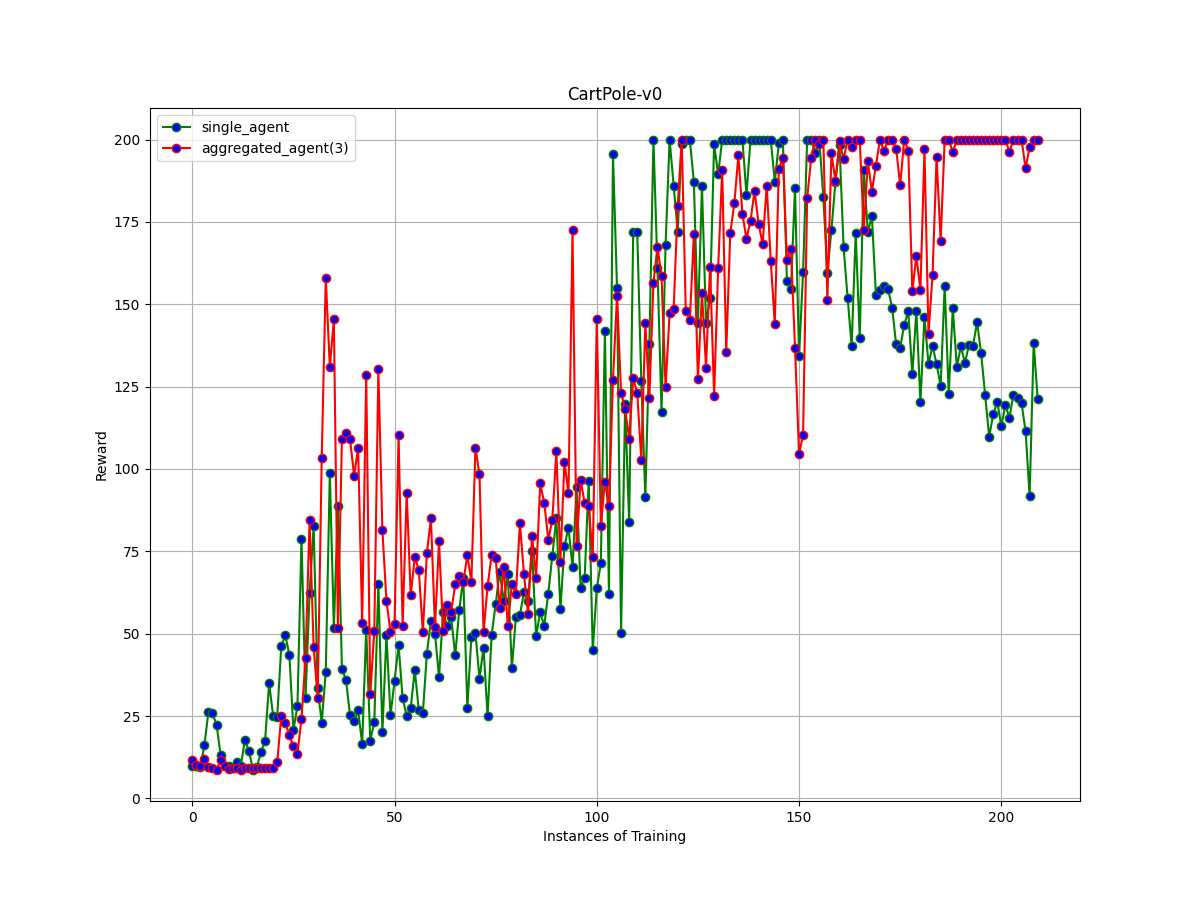
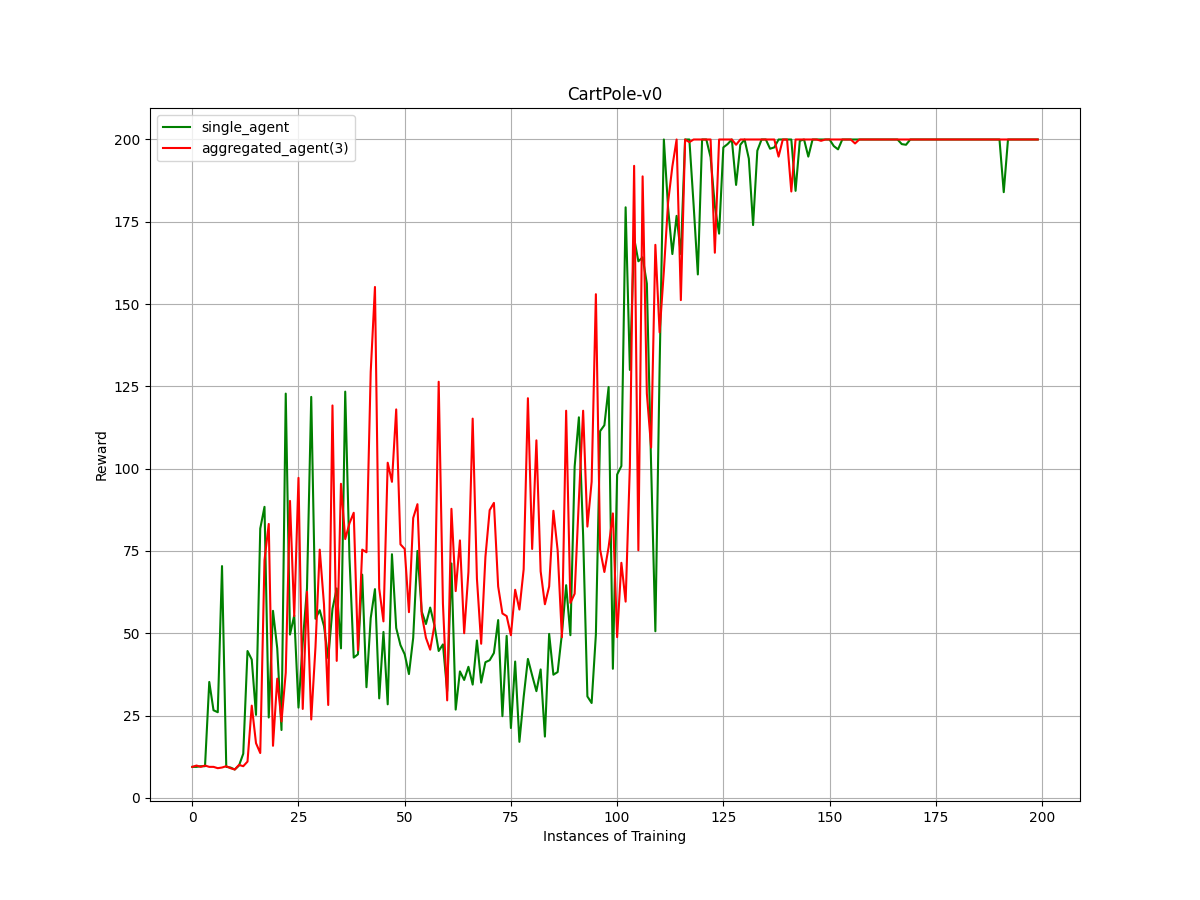
major changes to code

diff --git a/multiple_trainer.py b/multiple_trainer.py
@@ -18,56 +18,65 @@ def test_agent(env, agent, runs=5):
             state = next_state
             score += reward
         avg_score.append(score)
-    print("Avg test score for {} runs: {}".format(
-        runs, sum(avg_score)/len(avg_score)))
+    # print("Avg test score for {} runs: {}".format(
+    #     runs, sum(avg_score)/len(avg_score)))
     return sum(avg_score)/len(avg_score)
+
+def make_new_env(ENV_NAME, seed):
+    env = gym.make(ENV_NAME)
+    env.seed(seed)
+    return env
 
 
 if __name__ == "__main__":
     ENV_NAME = "Acrobot-v1"
+    torch.manual_seed(0)
+    np.random.seed(0)
+
     # environment
     envs = []
-    main_env = gym.make(ENV_NAME)
-    test_env = gym.make(ENV_NAME)
+    global_env = make_new_env(ENV_NAME, 0)
+    test_env = make_new_env(ENV_NAME, 0)
+    single_agent_env = make_new_env(ENV_NAME, 0)
 
     NO_OF_TRAINERS = 3
+    FREQUENCY_OF_UPDATE = 50
     for i in range(NO_OF_TRAINERS):
-        envs.append(gym.make(ENV_NAME))
+        envs.append(make_new_env(ENV_NAME, 0))
 
-    main_agent = DQNAgent(main_env)
+    global_agent = DQNAgent(global_env)
+    single_agent = DQNAgent(single_agent_env, network=global_agent.dqn)
 
-    agents = [DQNAgent(envs[i], network=main_agent.dqn)
+    agents = [DQNAgent(envs[i], network=global_agent.dqn)
               for i in range(NO_OF_TRAINERS)]
-    scores_agent = []
-    scores_main_agent = []
+    scores_single_agent = []
+    scores_global_agent = []
+    steps = []
     for runs in range(1, 50000000):
         for (i, agent) in enumerate(agents):
             # training each agent serially (needs to be parallelized)
-            agent.train(20)
+            agent.train(FREQUENCY_OF_UPDATE)
             # scores.append(test_agent(test_env, agent))
-            if(i == 0):
-                scores_agent.append(test_agent(test_env, agent))
+        single_agent.train(FREQUENCY_OF_UPDATE)
 
-        # main_agent = combine_agents_reward_based(main_agent, agents, scores)
-        main_agent = combine_agents(main_agent, agents)
-        print('Testing main_agent')
+        # global_agent = combine_agents_reward_based(global_agent, agents, scores)
+        global_agent = combine_agents(global_agent, agents)
 
-        scores_main_agent.append(test_agent(main_env, main_agent))
-
-        # agents = distribute_agents(main_agent, agents)
+        agents = distribute_agents(global_agent, agents)
 
 
         if(runs%10==0):
+            scores_global_agent.append(test_agent(global_env, global_agent))
+            scores_single_agent.append(test_agent(single_agent_env, single_agent))
+            steps.append(single_agent.step_cnt)
             ###############PLOT##################
             plt.figure(figsize=[12, 9])
             plt.subplot(1, 1, 1)
             plt.title(ENV_NAME)
-            plt.xlabel('Instances of Training')
-            plt.ylabel('Reward')
-            plt.plot(scores_agent, color='green', marker='o',
-                    markerfacecolor='blue', label='single_agent')
-            plt.plot(scores_main_agent, color='red', marker='o',
-                    markerfacecolor='blue', label='aggregated_agent({})'.format(NO_OF_TRAINERS))
+            plt.xlabel('Steps:')
+            plt.ylabel('Avg Reward after 5 runs')
+            plt.plot(steps, scores_single_agent, color='green', label='single_agent')
+            plt.plot(steps, scores_global_agent, color='red', label='aggregated_agent({})'.format(NO_OF_TRAINERS))
             plt.grid()
             plt.legend()
 

diff --git a/dqn.py b/dqn.py
@@ -114,6 +114,7 @@ class DQNAgent:
         self.update_cnt = 0
         self.step_cnt = 1
         self.scores = []
+        self.steps_list = []
         self.score = 0
         self.episode = 0
 
@@ -161,11 +162,12 @@ class DQNAgent:
                 self.episode += 1
                 self.state = self.env.reset()
                 self.scores.append(self.score)
+                self.steps_list.append(self.step_cnt)
                 if(self.verbose == True):
                     print("Step:", self.step_cnt, "\t Episode:", self.episode, "\t reward:",
                         self.score, "\t Avg reward:", sum(self.scores)/len(self.scores))
                 if(self.episode % 15 == 0 and self.verbose):
-                    self._plot(self.scores)
+                    self._plot()
                 self.score = 0
 
             # if training is ready
@@ -200,11 +202,13 @@ class DQNAgent:
                     self.dqn_target.load_state_dict(self.dqn.state_dict())
         self.env.close()
 
-    def _plot(self, scores: np.ndarray):
+    def _plot(self):
         plt.figure(figsize=[12, 9])
         plt.subplot(1, 1, 1)
-        plt.title("scores in each episode")
-        plt.plot(scores)
+        plt.title("scores")
+        plt.xlabel('Steps:')
+        plt.ylabel('Total Reward for episode:')
+        plt.plot(self.steps_list, self.scores)
         plt.grid()
 
         # plt.show()

diff --git a/agent_compiler.py b/agent_compiler.py
@@ -6,12 +6,13 @@ def combine_agents(main_agent, agents):
             if(i == 0):
                 main_param.data.copy_(agent_param)
             else:
-                main_param.data.copy_(main_param * (i/i+1) + agent_param * (1/i+1))
+                main_param.data.copy_(main_param * (i/(i+1)) + agent_param * (1/(i+1)))
+        
         for main_param, agent_param in zip(main_agent.dqn_target.parameters(), agents[i].dqn_target.parameters()):
             if(i == 0):
                 main_param.data.copy_(agent_param)
             else:
-                main_param.data.copy_(main_param * (i/i+1) + agent_param * (1/i+1))
+                main_param.data.copy_(main_param * (i/(i+1)) + agent_param * (1/(i+1)))
 
     return main_agent
 
